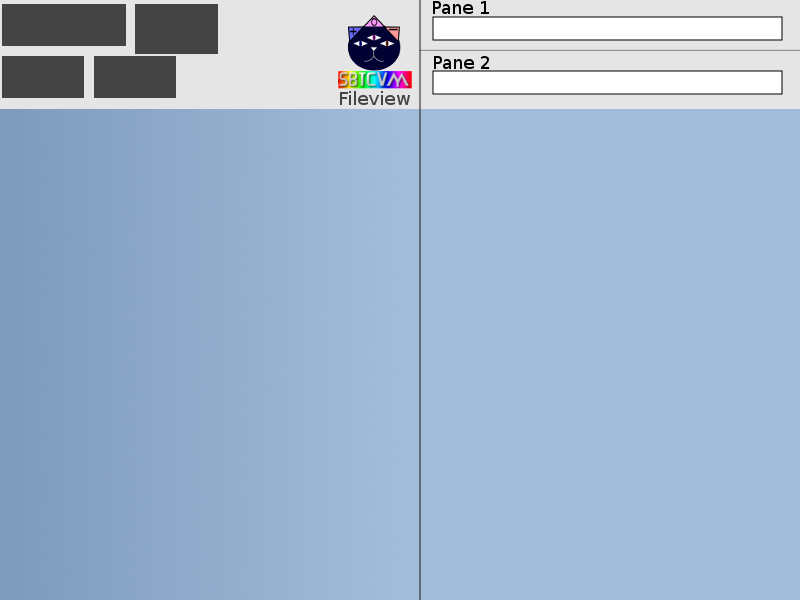
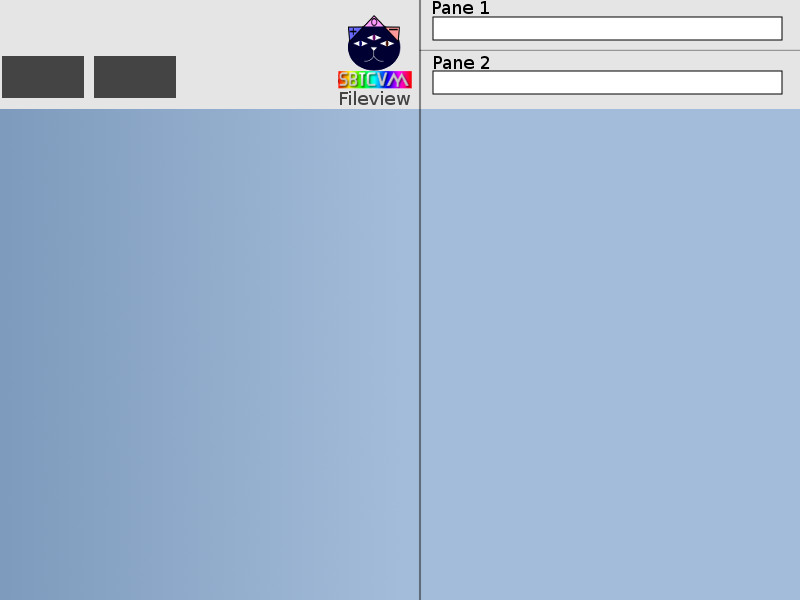
add file menu to fileview, add drop shadows to dialogs and menus.

Changed region(s): [[0.0, 0.0, 0.2812, 0.09]]

diff --git a/fileview2.py b/fileview2.py
@@ -63,6 +63,11 @@ fvpane1=pygame.image.load(os.path.join(os.path.join('VMSYSTEM', 'GFX', "fv"), 'f
 fvpane2=pygame.image.load(os.path.join(os.path.join('VMSYSTEM', 'GFX', "fv"), 'fvpane2.png')).convert()
 panefilter1=pygame.image.load(os.path.join(os.path.join('VMSYSTEM', 'GFX', "fv"), 'panefilter1.png')).convert()
 panefilter2=pygame.image.load(os.path.join(os.path.join('VMSYSTEM', 'GFX', "fv"), 'panefilter2.png')).convert()
+
+fvfilemenu=pygame.image.load(os.path.join(os.path.join('VMSYSTEM', 'GFX', "fv"), 'fvfilemenu.png')).convert()
+fvrunsw=pygame.image.load(os.path.join(os.path.join('VMSYSTEM', 'GFX', "fv"), 'fvrunsw.png')).convert()
+fvviewsw=pygame.image.load(os.path.join(os.path.join('VMSYSTEM', 'GFX', "fv"), 'fvviewsw.png')).convert()
+
 #definitions of all non-directory file types...
 typ_png=filetyp("png", fvimg, "img", 2)
 typ_jpg=filetyp("jpg", fvimg, "img", 2)
@@ -114,11 +119,11 @@ runexec=0
 
 pygame.display.set_caption(("fileview - " + iterfiles), ("fileview - " + iterfiles))
 #blit fixed on-screen buttons to filebg.
-quitx=filebg.blit(exitbtn, (3, 5))
-ghelpx=filebg.blit(helpbtn, (44, 5))
-gneww=filebg.blit(newbtn, (85, 5))
-runx=filebg.blit(fvrun, (136, 5))
-viewx=filebg.blit(fvview, (177, 5))
+filemenux=filebg.blit(fvfilemenu, (3, 5))
+#ghelpx=filebg.blit(helpbtn, (44, 5))
+#gneww=filebg.blit(newbtn, (85, 5))
+#runx=filebg.blit(fvrun, (136, 5))
+#viewx=filebg.blit(fvview, (177, 5))
 
 filp1=filebg.blit(panefilter1, (3, 57))
 filp2=filebg.blit(panefilter2, (95, 57))
@@ -131,6 +136,16 @@ fillabel=simplefontC.render(("Type Filter: " + filtertext), True, (0, 0, 0))
 #set scupdate to one at start, so it will draw the screen on startup
 #(screen updating is done only when what is shown would actually change)
 scupdate=1
+
+
+#filemenu
+fmnew=vmui.menuitem("New Window", "NEW")
+fmhelp=vmui.menuitem("Help (F1)", "HELP")
+fmabout=vmui.menuitem("About Fileview", "ABOUT")
+fmquit=vmui.menuitem("Quit", "QUIT")
+filemenu=[fmnew, fmhelp, fmabout, fmquit]
+
+
 #create gxmask only once. just reuse it.
 
 menuitrun=vmui.menuitem("Run", "RUN")
@@ -175,6 +190,10 @@ textdesc="""plain text file"""
 logdesc="""SBTCVM log file."""
 dmpdesc="""SBTCVM Virtualized Memory Dump"""
 
+diagabt="""Fileview v2.0
+Copyright (c) 2016-2017 Thomas Leathers and Contributors
+
+See README.md for more information."""
 
 def getdesc(filetype, fname, path):
 	if filetype=="trom":
@@ -317,15 +336,15 @@ while quitflag==0:
 				if listy2>screeny:
 					break
 		if panemode==1:
-			panex=screensurf.blit(fvpane1, (225, 5))
+			panex=screensurf.blit(fvpane1, (89, 5))
 		else:
-			panex=screensurf.blit(fvpane2, (225, 5))
+			panex=screensurf.blit(fvpane2, (89, 5))
+		if runexec==0:
+			runviewx=screensurf.blit(fvrunsw, (46, 5))
+		else:
+			runviewx=screensurf.blit(fvviewsw, (46, 5))
 		screensurf.blit(iconlist[filterflg], (43, 57))
 		screensurf.blit(iconlist[filterflg2], (135, 57))
-		if runexec==0:
-			screensurf.blit(fvswon, (136, 5))
-		elif runexec==1:
-			screensurf.blit(fvswon, (177, 5))
 		#draw path and filter status
 		if panemode==2:
 			menulabel=simplefontC.render(("path: " + iterfiles), True, (0, 0, 0))
@@ -348,12 +367,20 @@ while quitflag==0:
 			break
 		if event.type==MOUSEBUTTONDOWN:
 			#onscreen button handler (blitted to background image during startup)
-			if quitx.collidepoint(event.pos)==1 and event.button==1:
-				quitflag=1
-				break
+				
 			#help button
-			if ghelpx.collidepoint(event.pos)==1 and event.button==1:
-				subprocess.Popen(["python", "helpview.py", "fileview.xml"])
+			
+			if filemenux.collidepoint(event.pos)==1 and event.button==1:
+				menuret=vmui.menuset(filemenu, 3, 45, reclick=0, fontsize=26)
+				if menuret=="HELP":
+					subprocess.Popen(["python", "helpview.py", "fileview.xml"])
+				if menuret=="QUIT":
+					quitflag=1
+					break
+				if menuret=="ABOUT":
+					vmui.okdiag(diagabt, (screenx // 2), (screeny // 2))
+				if menuret=="NEW":
+					subprocess.Popen(["python", "fileview2.py"])
 			if panex.collidepoint(event.pos)==1 and event.button==1:
 				if panemode==1:
 					panemode=2
@@ -367,14 +394,20 @@ while quitflag==0:
 					scupdate=1
 					screenx=420
 					screeny=600
-			if gneww.collidepoint(event.pos)==1 and event.button==1:
-				subprocess.Popen(["python", "fileview2.py"])
-			if runx.collidepoint(event.pos)==1 and event.button==1:
-				runexec=0
+			if runviewx.collidepoint(event.pos)==1 and event.button==1:
+				if runexec==1:
+					runexec=0
+				else:
+					runexec=1
 				scupdate=1
-			if viewx.collidepoint(event.pos)==1 and event.button==1:
-				runexec=1
-				scupdate=1
+			#if gneww.collidepoint(event.pos)==1 and event.button==1:
+			#	subprocess.Popen(["python", "fileview2.py"])
+			#if runx.collidepoint(event.pos)==1 and event.button==1:
+			#	runexec=0
+			#	scupdate=1
+			#if viewx.collidepoint(event.pos)==1 and event.button==1:
+			#	runexec=1
+			#	scupdate=1
 			if filp1.collidepoint(event.pos)==1 and event.button==1:
 				filterbak=filterflg
 				filterflg=vmui.menuset(filtermenu, 3, 97, reclick=0)

diff --git a/VMSYSTEM/libvmui.py b/VMSYSTEM/libvmui.py
@@ -563,6 +563,14 @@ def menuset(menulist, xpos, ypos, reclick=1, textcol=(0, 0, 0), unavcol=(100, 10
 			
 	menuw += 4
 	menubox=pygame.Surface((menuw, menuh))
+	dropshadow=pygame.Surface((menuw, menuh))
+	menushad=dropshadow.get_rect()
+	menushad.x = (4 + xpos)
+	menushad.y = (4 + ypos)
+	dropshadow.set_alpha(80)
+	dropshadow.fill((0, 0, 0))
+	screensurf.blit(dropshadow, menushad)
+	#pygame.draw.rect(screensurf, (0, 0, 0, 50), menushad, 0)
 	#itembox=pygame.Surface((menuw, yjump))
 	menubox.fill(bgcol)
 	menugx=screensurf.blit(menubox, (xpos, ypos))
@@ -674,6 +682,13 @@ def okdiag(textstring, xpos, ypos, reclick=2, textcol=(0, 0, 0), linecol=(120, 1
 	ypos -= (dialogh // 2)
 	menubox=pygame.Surface((dialogw, dialogh))
 	menubox.fill(bgcol)
+	dropshadow=pygame.Surface((dialogw, dialogh))
+	menushad=dropshadow.get_rect()
+	menushad.x = (4 + xpos)
+	menushad.y = (4 + ypos)
+	dropshadow.set_alpha(80)
+	dropshadow.fill((0, 0, 0))
+	screensurf.blit(dropshadow, menushad)
 	menugx=screensurf.blit(menubox, (xpos, ypos))
 	pygame.draw.rect(screensurf, linecol, menugx, 1)
 	texty=(ypos+ypad)
@@ -744,6 +759,13 @@ def yndiag(textstring, xpos, ypos, reclick=2, textcol=(0, 0, 0), linecol=(120, 1
 	ypos -= (dialogh // 2)
 	menubox=pygame.Surface((dialogw, dialogh))
 	menubox.fill(bgcol)
+	dropshadow=pygame.Surface((dialogw, dialogh))
+	menushad=dropshadow.get_rect()
+	menushad.x = (4 + xpos)
+	menushad.y = (4 + ypos)
+	dropshadow.set_alpha(80)
+	dropshadow.fill((0, 0, 0))
+	screensurf.blit(dropshadow, menushad)
 	menugx=screensurf.blit(menubox, (xpos, ypos))
 	pygame.draw.rect(screensurf, linecol, menugx, 1)
 	texty=(ypos+ypad)
